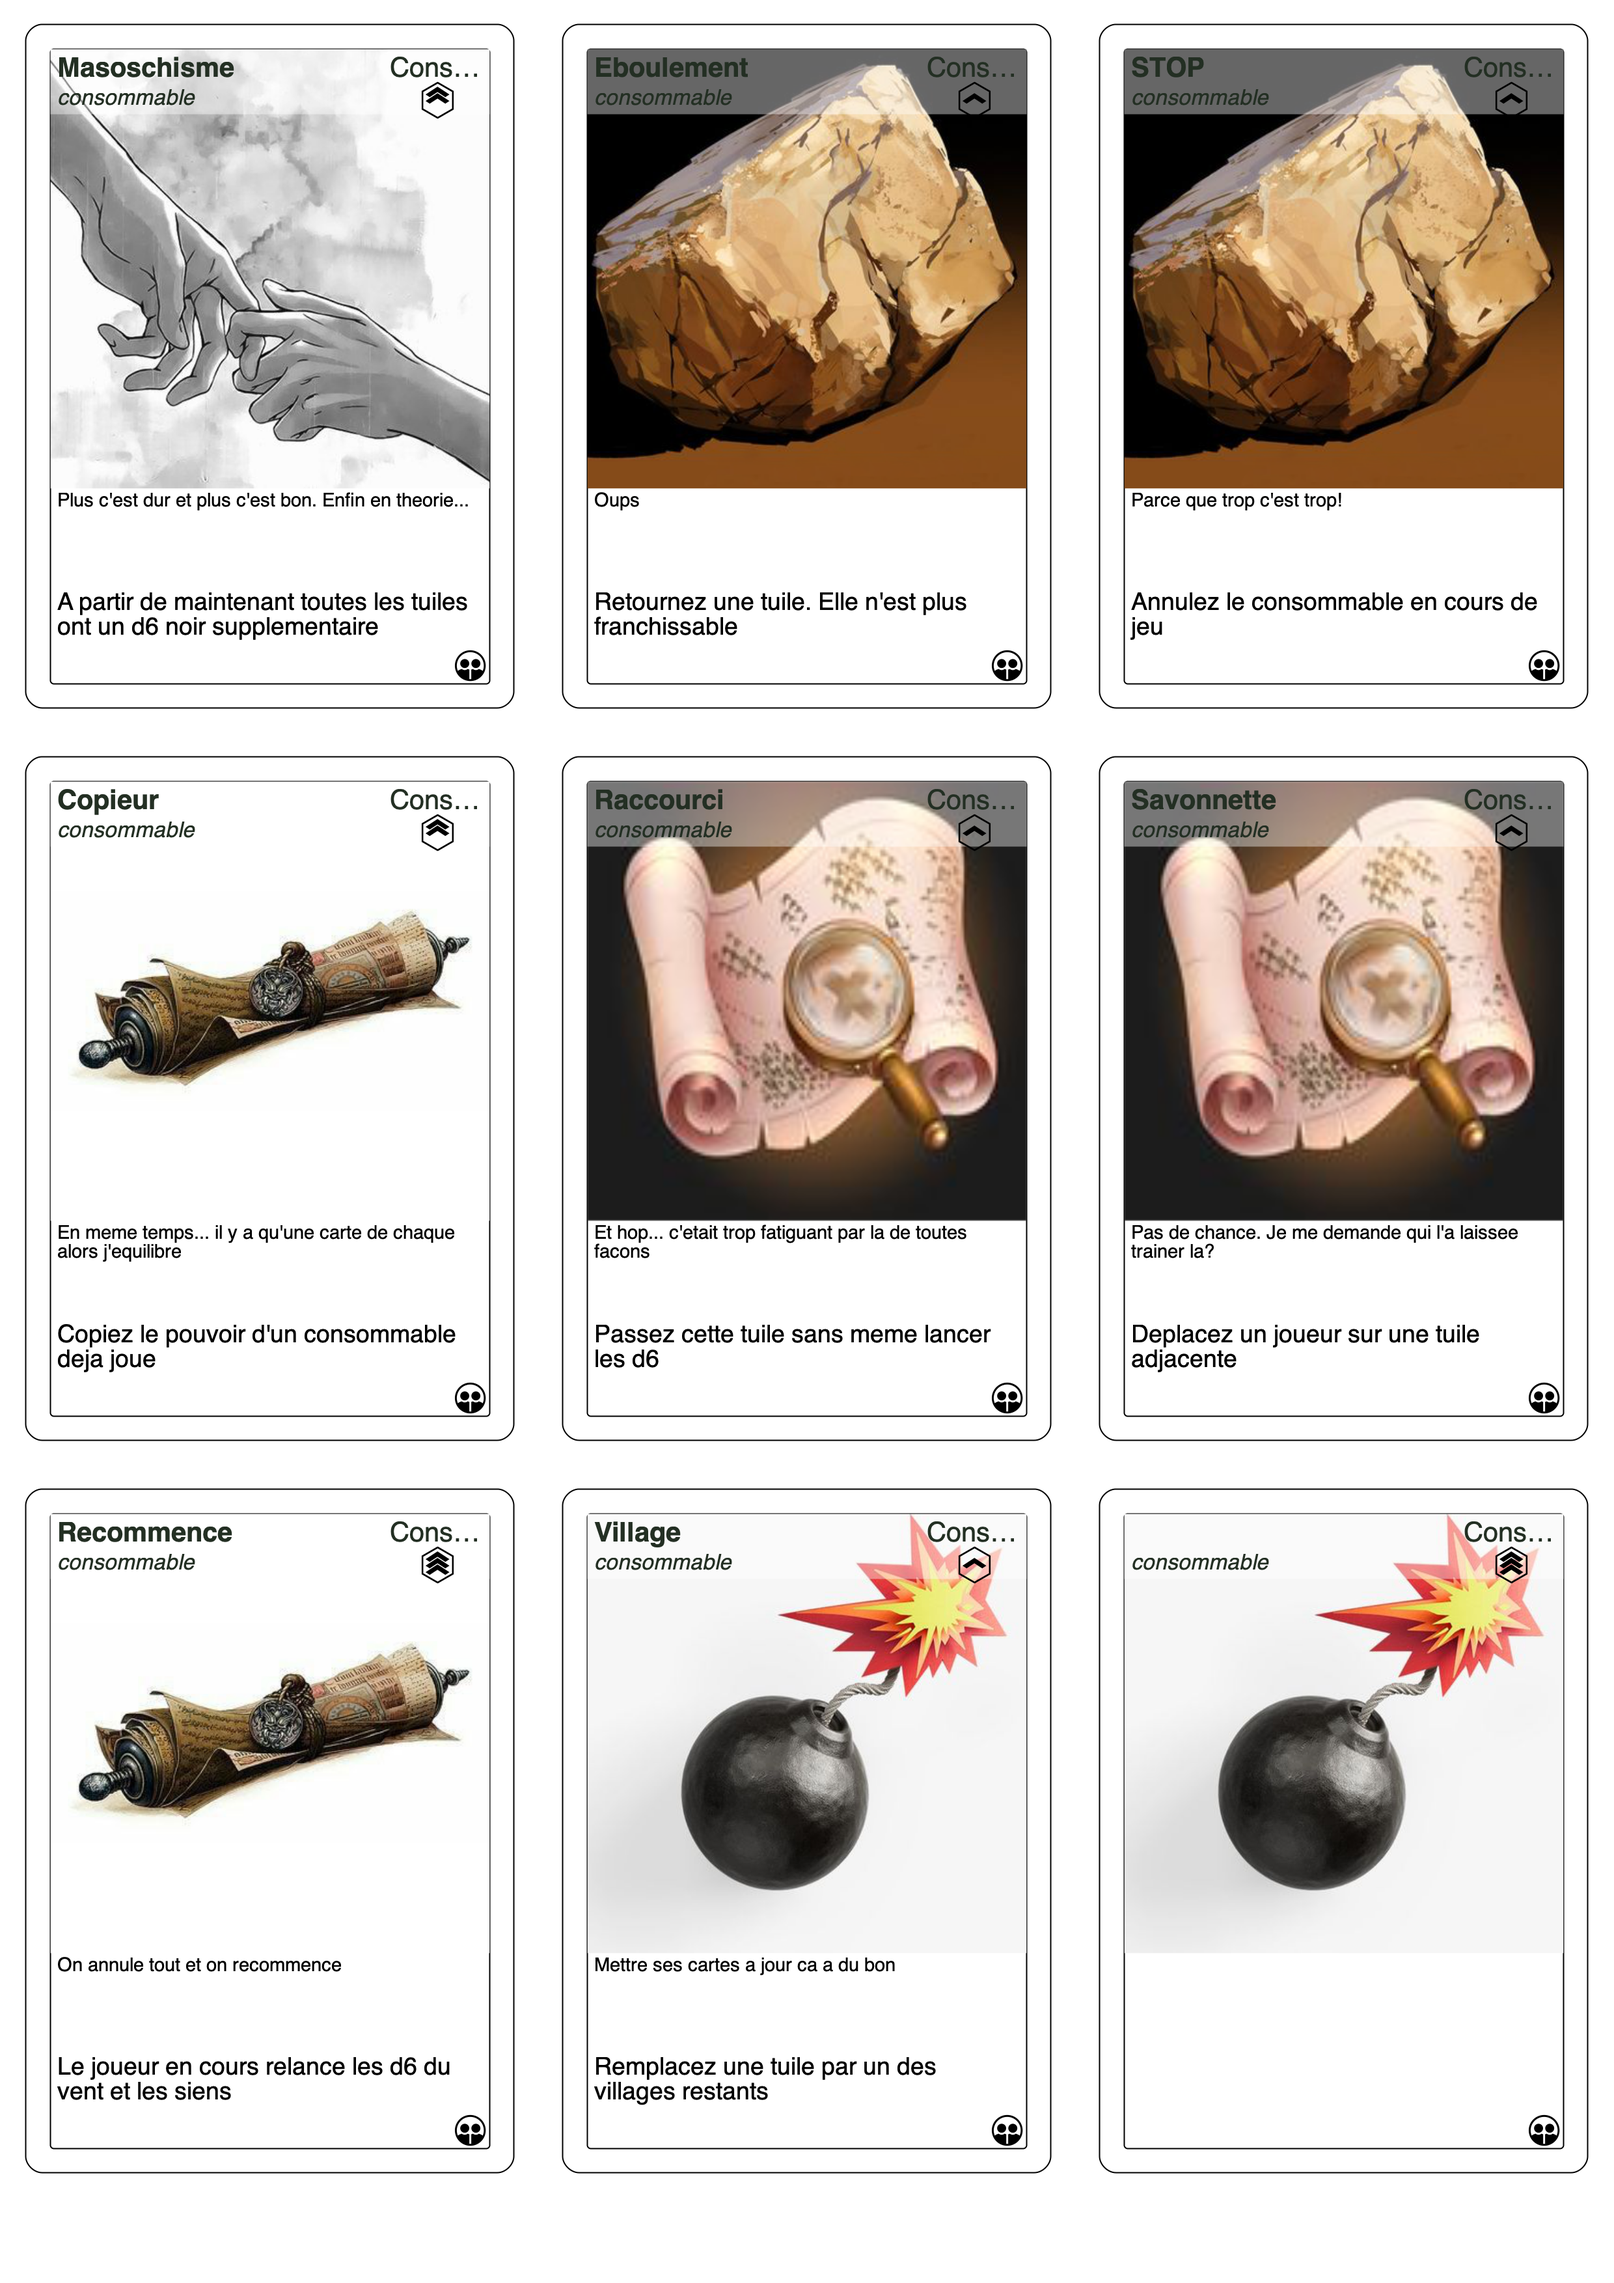
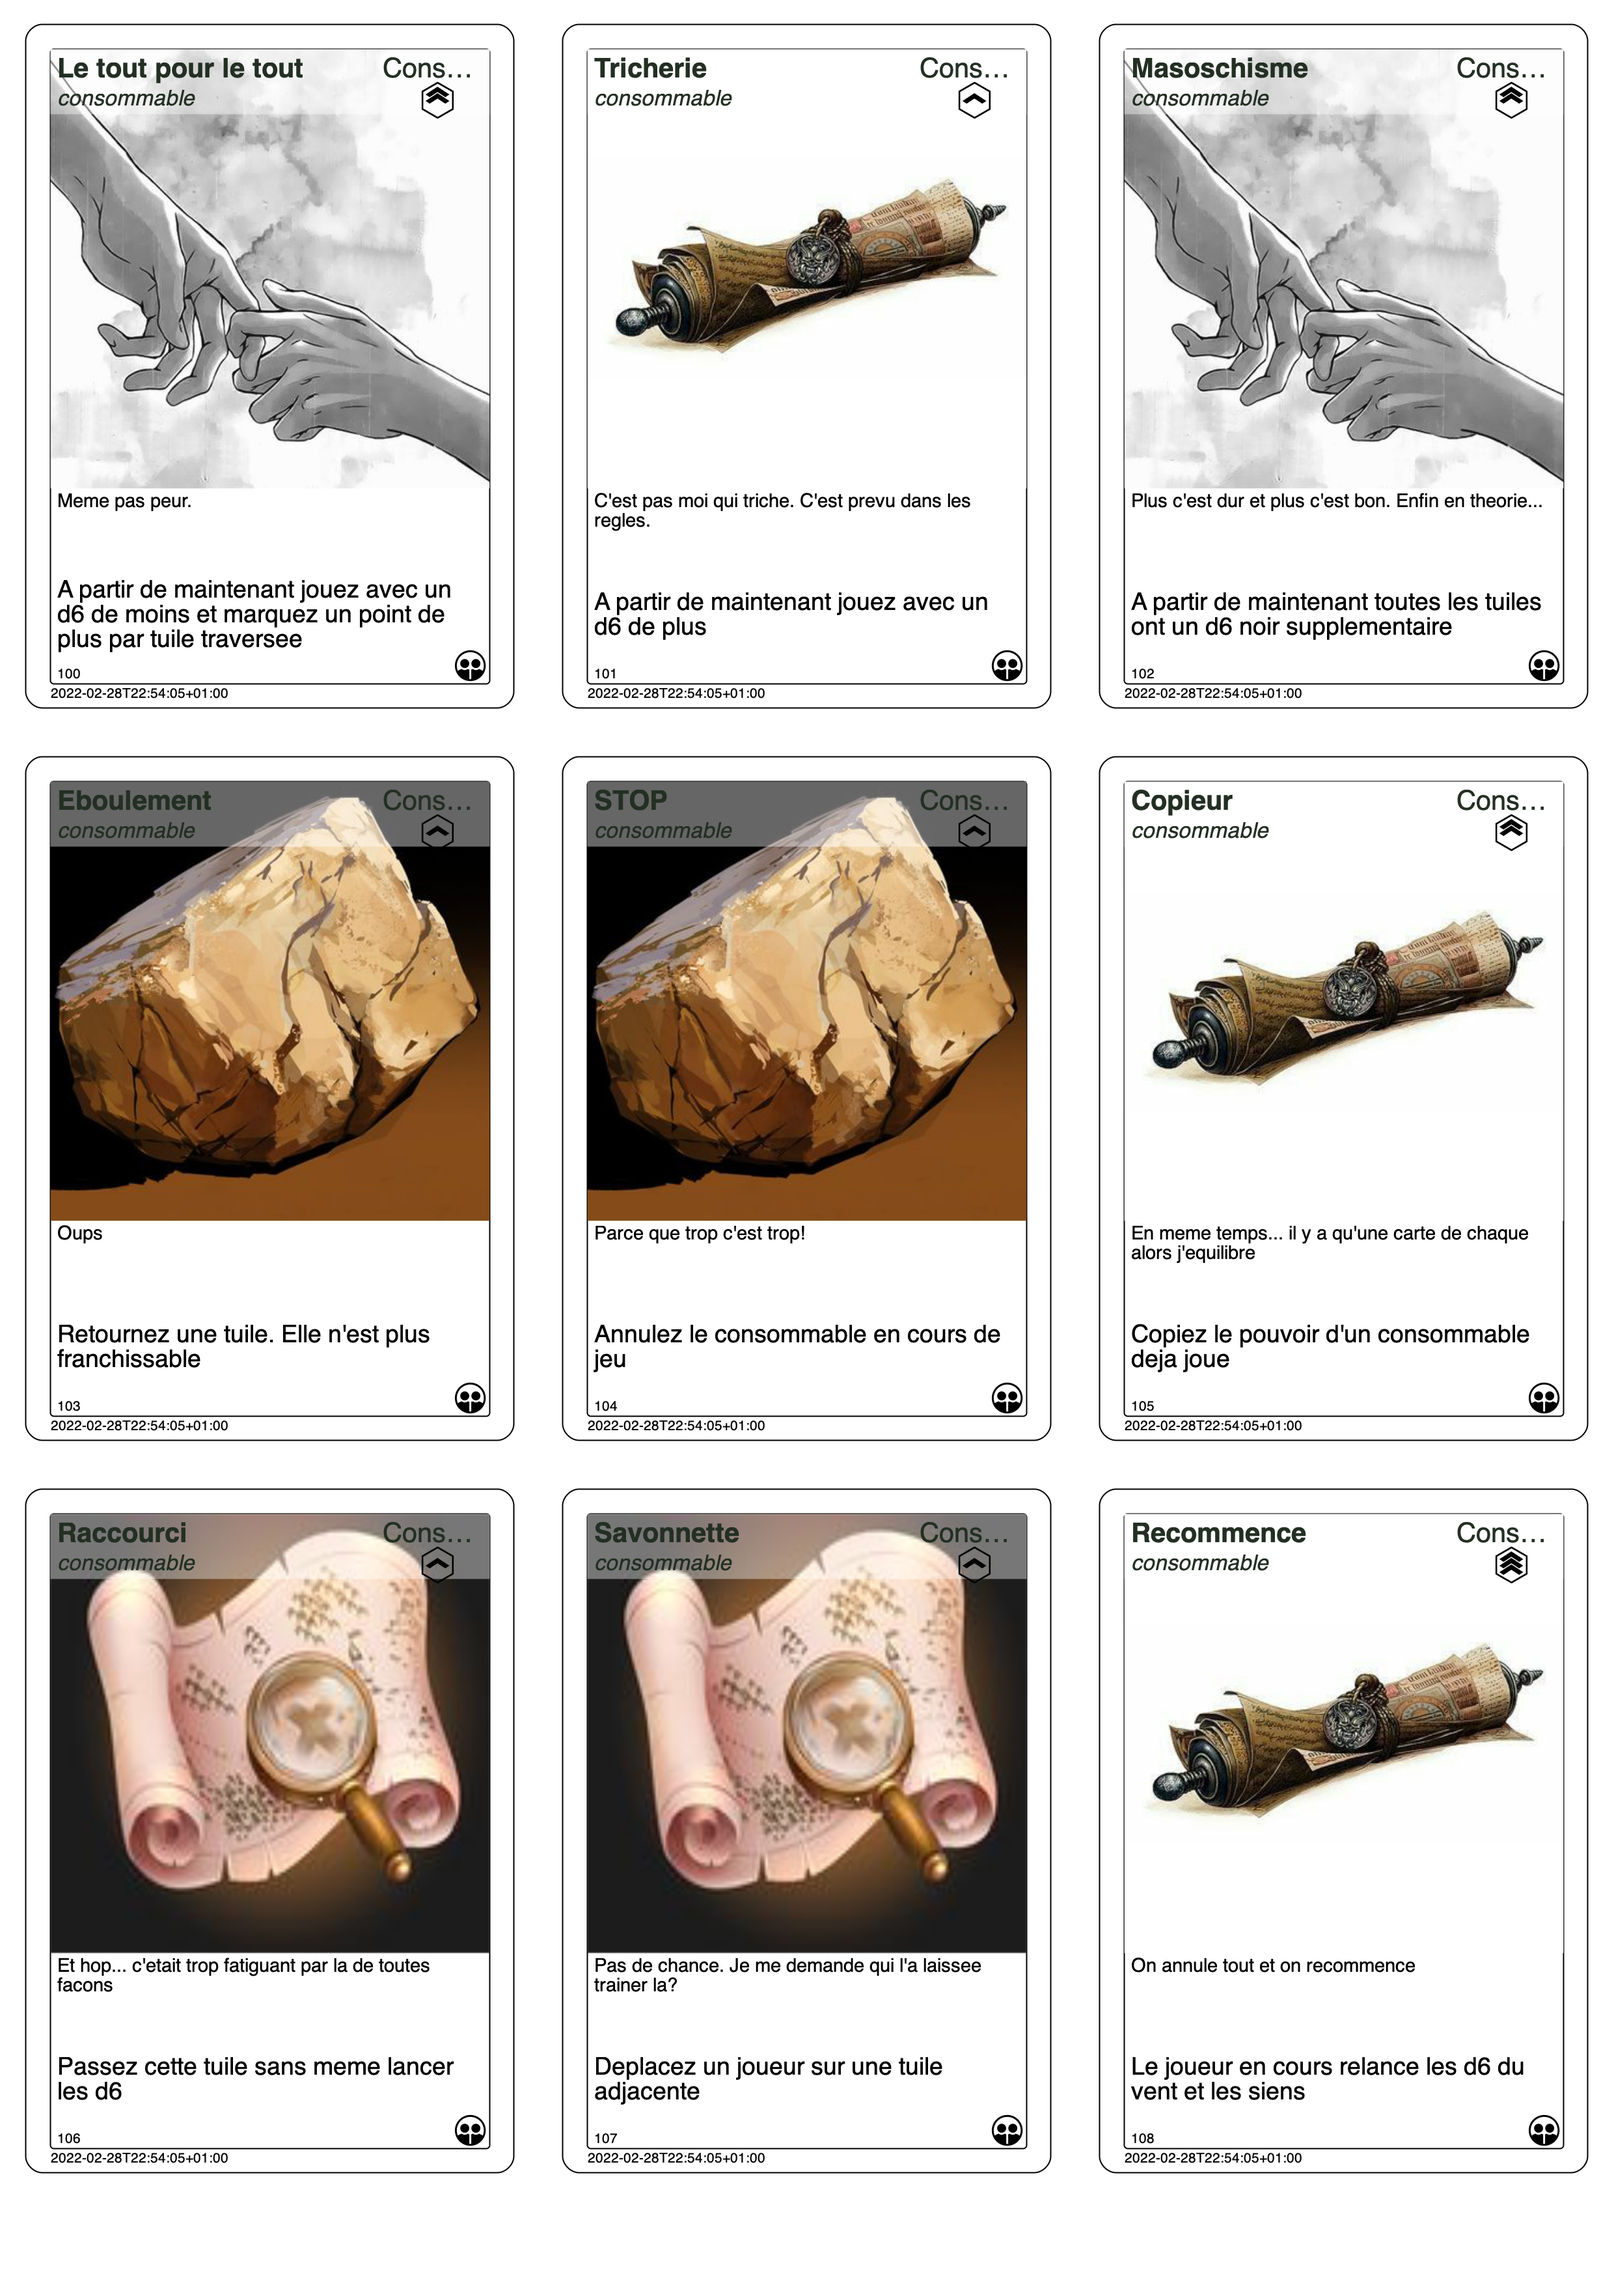
Revue des pouvoirs pour proposer de nouvelles strategies de jeu et combos. Rajout de quelques traceurs egalement. Revue de la distribution des personnages entre le jeu solo et la partie 2 joueurs.

diff --git a/src/main/ruby/horde_cards.rb b/src/main/ruby/horde_cards.rb
@@ -5,14 +5,16 @@ deck1 = Squib.xlsx file: 'src/resources/horde_cards.xlsx'
 #deck2 = Squib.csv file: %w(src/resources/horde2_cards.csv)
 #deck_Vs = Squib.csv file: %w(src/resources/horde_vs_cards.csv)
 
-def drawCards(deck,dirname)
+now = DateTime.now.to_s
+
+def drawCards(deck, dirname, now)
   rect layout: :bleed
   rect layout: :cut, stroke_color: :black
 #  rect layout: :inside, stroke_color: "#000000"
 
   fill_color = Hash.new
   fill_color["Pack"] = "#AAAAFF"
-  fill_color["Traine"] = "#AAFFAA"
+  fill_color["Croc"] = "#AAFFAA"
   fill_color["Fer"] = "#FFAAAA"
   fill_color["Traceur"] = "#DD8888"
   fill_color["Consommable"] = "#FFFFFF"
@@ -41,6 +43,9 @@ def drawCards(deck,dirname)
     end
   }, layout: "ExtensionIcon"
 
+  text str: now, layout: :date
+  text str: deck["Id"], layout: :id_card
+  text str: deck["Retravailler"], layout: :date, x: 500
   save_png prefix: deck["Id"].zip(deck["Position"],deck["Nom"],deck["Tier"]).map{|name| "%03d.%s.%s.T%s."%name}, dir: dirname#dir: '_cards'
 
 end
@@ -55,7 +60,7 @@ def drawCutlines(deck,dirname)
 Squib::Deck.new(cards: deck1["Nom"].size,
                 layout: %w(src/resources/Vlayout.yml src/resources/Vcards.yml),
                 width: '2.75in', height: '3.75in') do
-  drawCards(deck1,'_cards1')
+  drawCards(deck1,'_cards1', now)
 end
 
 
